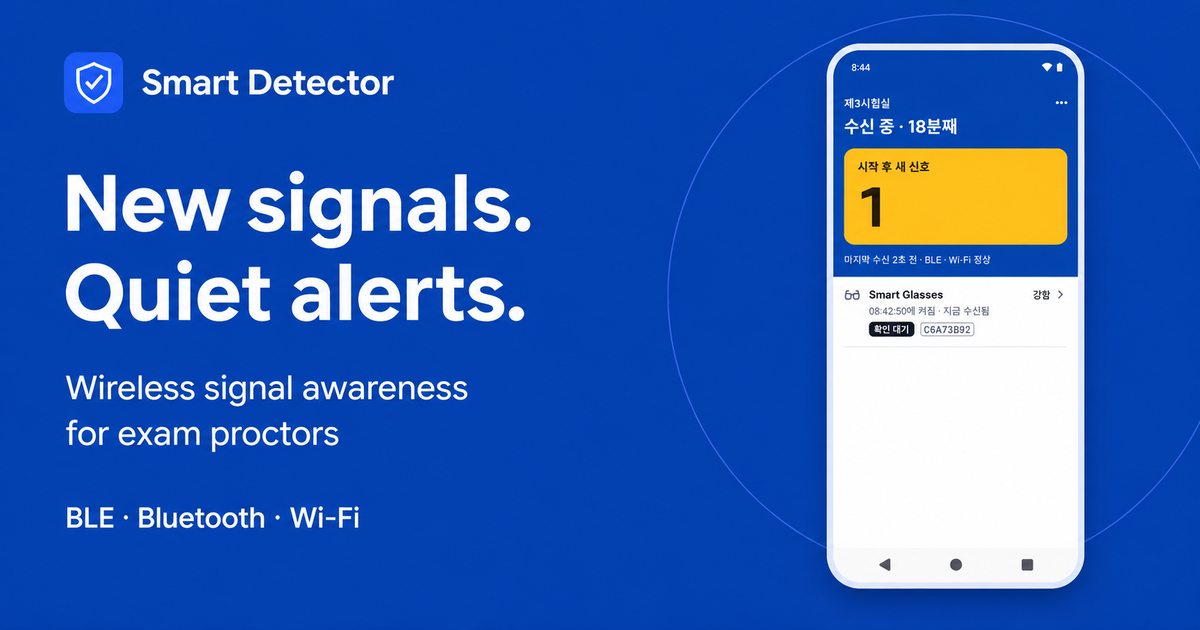
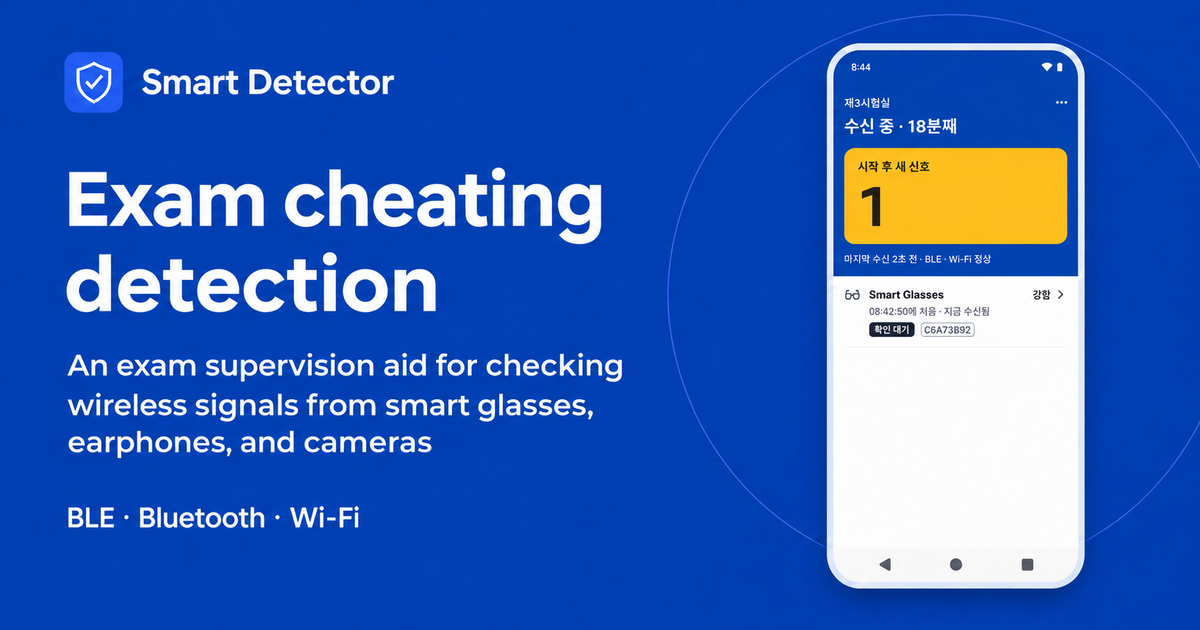
Update social previews with exam cheating detection copy

diff --git a/index.html b/index.html
@@ -14,19 +14,19 @@
   <meta property="og:locale" content="ko_KR">
   <meta property="og:locale:alternate" content="en_US">
   <meta property="og:site_name" content="스마트 디텍터">
-  <meta property="og:title" content="시험 중 새 신호, 조용한 알림. 스마트 디텍터">
-  <meta property="og:description" content="감독관을 위한 무료 Android 앱. 새로운 무선 신호를 확인하고, 시험 후 기록을 남기세요.">
+  <meta property="og:title" content="스마트 디텍터 — 시험 부정행위 탐지">
+  <meta property="og:description" content="스마트 글래스, 이어폰, 카메라의 무선신호를 확인하는 시험감독 보조도구">
   <meta property="og:url" content="https://smartdetector.fwth.ai/">
-  <meta property="og:image" content="https://smartdetector.fwth.ai/assets/social.png?v=20261116-play-design">
+  <meta property="og:image" content="https://smartdetector.fwth.ai/assets/social.png?v=20261116-exam-detection">
   <meta property="og:image:type" content="image/png">
   <meta property="og:image:width" content="1200">
   <meta property="og:image:height" content="630">
-  <meta property="og:image:alt" content="스마트 디텍터 — 시험 중 새 신호, 조용한 알림. 파란 배경 위 방패 아이콘과 새 신호 1개가 표시된 앱 화면.">
+  <meta property="og:image:alt" content="스마트 디텍터 — 시험 부정행위 탐지. 스마트 글래스, 이어폰, 카메라의 무선신호를 확인하는 시험감독 보조도구.">
   <meta name="twitter:card" content="summary_large_image">
-  <meta name="twitter:title" content="시험 중 새 신호, 조용한 알림. 스마트 디텍터">
-  <meta name="twitter:description" content="감독관을 위한 무료 Android 앱. 새로운 무선 신호를 확인하고, 시험 후 기록을 남기세요.">
-  <meta name="twitter:image" content="https://smartdetector.fwth.ai/assets/social.png?v=20261116-play-design">
-  <meta name="twitter:image:alt" content="스마트 디텍터 — 시험 중 새 신호, 조용한 알림. 파란 배경 위 방패 아이콘과 새 신호 1개가 표시된 앱 화면.">
+  <meta name="twitter:title" content="스마트 디텍터 — 시험 부정행위 탐지">
+  <meta name="twitter:description" content="스마트 글래스, 이어폰, 카메라의 무선신호를 확인하는 시험감독 보조도구">
+  <meta name="twitter:image" content="https://smartdetector.fwth.ai/assets/social.png?v=20261116-exam-detection">
+  <meta name="twitter:image:alt" content="스마트 디텍터 — 시험 부정행위 탐지. 스마트 글래스, 이어폰, 카메라의 무선신호를 확인하는 시험감독 보조도구.">
   <link rel="icon" href="assets/icon.svg" type="image/svg+xml">
   <link rel="preload" href="assets/PretendardVariable.woff2" as="font" type="font/woff2" crossorigin>
   <link rel="stylesheet" href="styles.css?v=20261116-play">

diff --git a/en/index.html b/en/index.html
@@ -14,19 +14,19 @@
   <meta property="og:locale" content="en_US">
   <meta property="og:locale:alternate" content="ko_KR">
   <meta property="og:site_name" content="Smart Detector">
-  <meta property="og:title" content="New signals during exams. Quiet alerts. Smart Detector">
-  <meta property="og:description" content="A free Android app for exam proctors. Notice new wireless signals and keep a record after the exam.">
+  <meta property="og:title" content="Smart Detector — Exam cheating detection">
+  <meta property="og:description" content="An exam supervision aid for checking wireless signals from smart glasses, earphones, and cameras.">
   <meta property="og:url" content="https://smartdetector.fwth.ai/en/">
-  <meta property="og:image" content="https://smartdetector.fwth.ai/assets/social-en.png?v=20261116-play-design">
+  <meta property="og:image" content="https://smartdetector.fwth.ai/assets/social-en.png?v=20261116-exam-detection">
   <meta property="og:image:type" content="image/png">
   <meta property="og:image:width" content="1200">
   <meta property="og:image:height" content="630">
-  <meta property="og:image:alt" content="Smart Detector — New signals. Quiet alerts. Shield icon and an app screen showing one new signal on a blue background.">
+  <meta property="og:image:alt" content="Smart Detector — Exam cheating detection. An exam supervision aid for checking wireless signals from smart glasses, earphones, and cameras.">
   <meta name="twitter:card" content="summary_large_image">
-  <meta name="twitter:title" content="New signals during exams. Quiet alerts. Smart Detector">
-  <meta name="twitter:description" content="A free Android app for exam proctors. Notice new wireless signals and keep a record after the exam.">
-  <meta name="twitter:image" content="https://smartdetector.fwth.ai/assets/social-en.png?v=20261116-play-design">
-  <meta name="twitter:image:alt" content="Smart Detector — New signals. Quiet alerts. Shield icon and an app screen showing one new signal on a blue background.">
+  <meta name="twitter:title" content="Smart Detector — Exam cheating detection">
+  <meta name="twitter:description" content="An exam supervision aid for checking wireless signals from smart glasses, earphones, and cameras.">
+  <meta name="twitter:image" content="https://smartdetector.fwth.ai/assets/social-en.png?v=20261116-exam-detection">
+  <meta name="twitter:image:alt" content="Smart Detector — Exam cheating detection. An exam supervision aid for checking wireless signals from smart glasses, earphones, and cameras.">
   <link rel="icon" href="../assets/icon.svg" type="image/svg+xml">
   <link rel="preload" href="../assets/PretendardVariable.woff2" as="font" type="font/woff2" crossorigin>
   <link rel="stylesheet" href="../styles.css?v=20261116-play">
